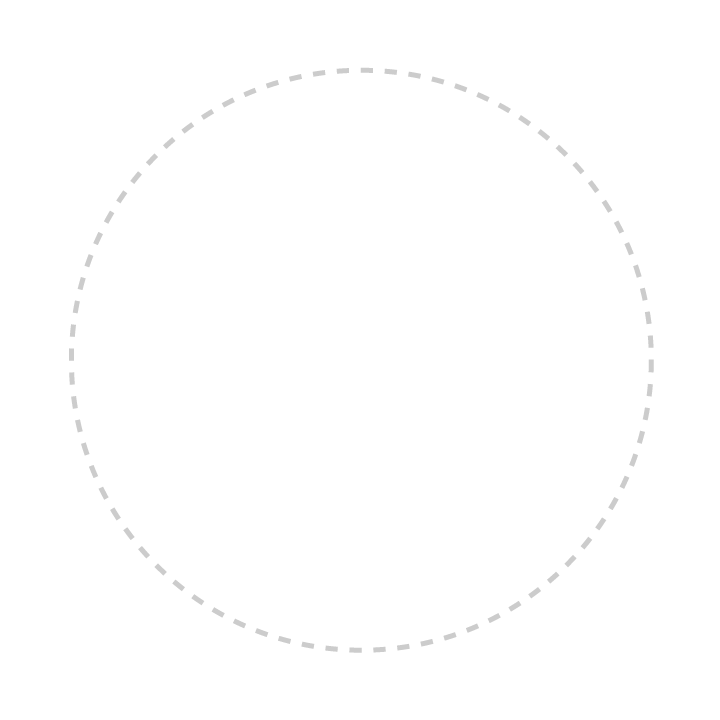
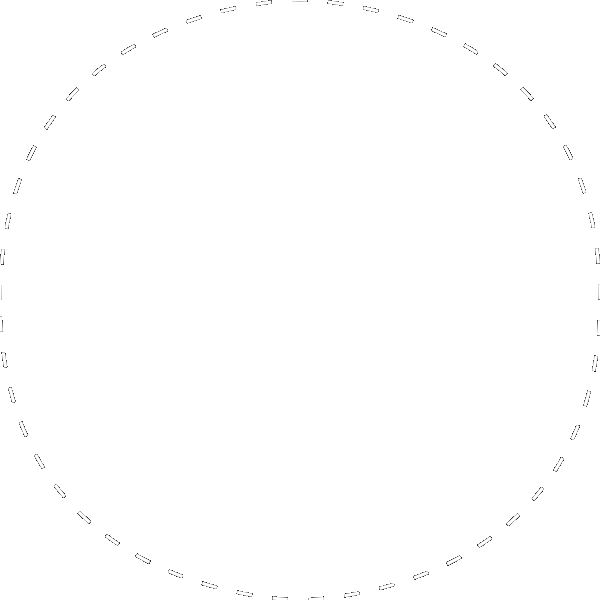
Render Aries (#4)
* Render symbols for Aries and the "North" arrow. Renamed sol-symbol img file for consistency.

* Redesigned orbit image to remove empty space between orbit and picture borders.

Removed magic numbers from draw functions for North arrow and Aries.

diff --git a/SolWatch/Game1.cs b/SolWatch/Game1.cs
@@ -8,16 +8,17 @@ namespace SolWatch
     public class Game1 : Game
     {
         Texture2D solTexture;
-        Point screenCenter;
-
         Texture2D orbitTexture;
+        Texture2D ariesTexture;
+        Texture2D arrowTexture;
+
+        Point screenCenter;
+        Point celestialBodySymbolSize;
         int maxOrbitRadiusInPixels;
         Point maxOrbitSizeInPixels;
         float kmToPixelsMultiplier;
 
         Planet neptune;
-        
-        Point celestialBodySymbolSize;
         
         private GraphicsDeviceManager graphics;
         private SpriteBatch spriteBatch;
@@ -41,7 +42,7 @@ namespace SolWatch
 
             celestialBodySymbolSize = new Point(50, 50);
 
-            maxOrbitRadiusInPixels = graphics.PreferredBackBufferHeight / 2;
+            maxOrbitRadiusInPixels = (graphics.PreferredBackBufferHeight / 2) - 50;
             maxOrbitSizeInPixels = new Point(maxOrbitRadiusInPixels * 2, maxOrbitRadiusInPixels * 2);
 
             neptune = new Planet(
@@ -61,10 +62,10 @@ namespace SolWatch
         {
             spriteBatch = new SpriteBatch(GraphicsDevice);
 
-            // TODO: use this.Content to load your game content here
-            solTexture = Content.Load<Texture2D>("sol_symbol");
+            solTexture = Content.Load<Texture2D>("sol-symbol");
             orbitTexture = Content.Load<Texture2D>("dotted-circle");
-
+            arrowTexture = Content.Load<Texture2D>("white-arrow");
+            ariesTexture = Content.Load<Texture2D>("aries-symbol");
         }
 
         protected override void Update(GameTime gameTime)
@@ -93,6 +94,32 @@ namespace SolWatch
                 color: Color.Gold,
                 rotation: 0f,
                 origin: new Vector2(solTexture.Width / 2, solTexture.Height / 2),
+                effects: SpriteEffects.None,
+                layerDepth: 0f);
+
+            // Draw "North" arrow
+            spriteBatch.Draw(
+                texture: arrowTexture,
+                destinationRectangle: new Rectangle(
+                    location: new Point(screenCenter.X - maxOrbitRadiusInPixels, screenCenter.Y - maxOrbitRadiusInPixels),
+                    size: new Point(celestialBodySymbolSize.X + 30, celestialBodySymbolSize.Y + 30)),
+                sourceRectangle: null,
+                color: Color.White,
+                rotation: 0f,
+                origin: new Vector2(arrowTexture.Width / 2, arrowTexture.Height / 2),
+                effects: SpriteEffects.None,
+                layerDepth: 0f);
+
+            // Draw Aries
+            spriteBatch.Draw(
+                texture: ariesTexture,
+                destinationRectangle: new Rectangle(
+                    location: new Point (screenCenter.X - maxOrbitRadiusInPixels, screenCenter.Y - maxOrbitRadiusInPixels + 60),
+                    size: celestialBodySymbolSize),
+                sourceRectangle: null,
+                color: Color.White,
+                rotation: 0f,
+                origin: new Vector2(ariesTexture.Width / 2, ariesTexture.Height / 2),
                 effects: SpriteEffects.None,
                 layerDepth: 0f);
 
